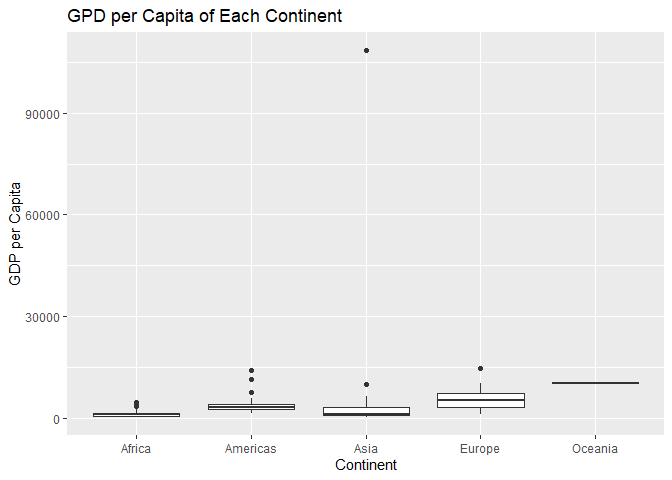
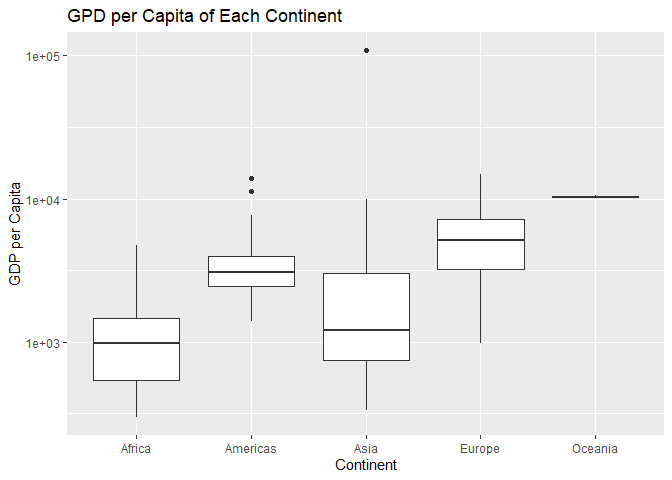
resubmit challenge 4

diff --git a/challenges/c04-gapminder-assignment.md b/challenges/c04-gapminder-assignment.md
@@ -3,47 +3,32 @@ Gapminder
 (Your name here)
 2020-
 
-- <a href="#grading-rubric" id="toc-grading-rubric">Grading Rubric</a>
-  - <a href="#individual" id="toc-individual">Individual</a>
-  - <a href="#due-date" id="toc-due-date">Due Date</a>
-- <a href="#guided-eda" id="toc-guided-eda">Guided EDA</a>
-  - <a
-    href="#q0-perform-your-first-checks-on-the-dataset-what-variables-are-in-this"
-    id="toc-q0-perform-your-first-checks-on-the-dataset-what-variables-are-in-this"><strong>q0</strong>
-    Perform your “first checks” on the dataset. What variables are in
-    this</a>
-  - <a
-    href="#q1-determine-the-most-and-least-recent-years-in-the-gapminder-dataset"
-    id="toc-q1-determine-the-most-and-least-recent-years-in-the-gapminder-dataset"><strong>q1</strong>
-    Determine the most and least recent years in the <code>gapminder</code>
-    dataset.</a>
-  - <a
-    href="#q2-filter-on-years-matching-year_min-and-make-a-plot-of-the-gdp-per-capita-against-continent-choose-an-appropriate-geom_-to-visualize-the-data-what-observations-can-you-make"
-    id="toc-q2-filter-on-years-matching-year_min-and-make-a-plot-of-the-gdp-per-capita-against-continent-choose-an-appropriate-geom_-to-visualize-the-data-what-observations-can-you-make"><strong>q2</strong>
-    Filter on years matching <code>year_min</code>, and make a plot of the
-    GDP per capita against continent. Choose an appropriate
-    <code>geom_</code> to visualize the data. What observations can you
-    make?</a>
-  - <a
-    href="#q3-you-should-have-found-at-least-three-outliers-in-q2-but-possibly-many-more-identify-those-outliers-figure-out-which-countries-they-are"
-    id="toc-q3-you-should-have-found-at-least-three-outliers-in-q2-but-possibly-many-more-identify-those-outliers-figure-out-which-countries-they-are"><strong>q3</strong>
-    You should have found <em>at least</em> three outliers in q2 (but
+- [Grading Rubric](#grading-rubric)
+  - [Individual](#individual)
+  - [Due Date](#due-date)
+- [Guided EDA](#guided-eda)
+  - [**q0** Perform your “first checks” on the dataset. What variables
+    are in
+    this](#q0-perform-your-first-checks-on-the-dataset-what-variables-are-in-this)
+  - [**q1** Determine the most and least recent years in the `gapminder`
+    dataset.](#q1-determine-the-most-and-least-recent-years-in-the-gapminder-dataset)
+  - [**q2** Filter on years matching `year_min`, and make a plot of the
+    GDP per capita against continent. Choose an appropriate `geom_` to
+    visualize the data. What observations can you
+    make?](#q2-filter-on-years-matching-year_min-and-make-a-plot-of-the-gdp-per-capita-against-continent-choose-an-appropriate-geom_-to-visualize-the-data-what-observations-can-you-make)
+  - [**q3** You should have found *at least* three outliers in q2 (but
     possibly many more!). Identify those outliers (figure out which
-    countries they are).</a>
-  - <a
-    href="#q4-create-a-plot-similar-to-yours-from-q2-studying-both-year_min-and-year_max-find-a-way-to-highlight-the-outliers-from-q3-on-your-plot-in-a-way-that-lets-you-identify-which-country-is-which-compare-the-patterns-between-year_min-and-year_max"
-    id="toc-q4-create-a-plot-similar-to-yours-from-q2-studying-both-year_min-and-year_max-find-a-way-to-highlight-the-outliers-from-q3-on-your-plot-in-a-way-that-lets-you-identify-which-country-is-which-compare-the-patterns-between-year_min-and-year_max"><strong>q4</strong>
-    Create a plot similar to yours from q2 studying both
-    <code>year_min</code> and <code>year_max</code>. Find a way to highlight
-    the outliers from q3 on your plot <em>in a way that lets you identify
-    which country is which</em>. Compare the patterns between
-    <code>year_min</code> and <code>year_max</code>.</a>
-- <a href="#your-own-eda" id="toc-your-own-eda">Your Own EDA</a>
-  - <a
-    href="#q5-create-at-least-three-new-figures-below-with-each-figure-try-to-pose-new-questions-about-the-data"
-    id="toc-q5-create-at-least-three-new-figures-below-with-each-figure-try-to-pose-new-questions-about-the-data"><strong>q5</strong>
-    Create <em>at least</em> three new figures below. With each figure, try
-    to pose new questions about the data.</a>
+    countries they
+    are).](#q3-you-should-have-found-at-least-three-outliers-in-q2-but-possibly-many-more-identify-those-outliers-figure-out-which-countries-they-are)
+  - [**q4** Create a plot similar to yours from q2 studying both
+    `year_min` and `year_max`. Find a way to highlight the outliers from
+    q3 on your plot *in a way that lets you identify which country is
+    which*. Compare the patterns between `year_min` and
+    `year_max`.](#q4-create-a-plot-similar-to-yours-from-q2-studying-both-year_min-and-year_max-find-a-way-to-highlight-the-outliers-from-q3-on-your-plot-in-a-way-that-lets-you-identify-which-country-is-which-compare-the-patterns-between-year_min-and-year_max)
+- [Your Own EDA](#your-own-eda)
+  - [**q5** Create *at least* three new figures below. With each figure,
+    try to pose new questions about the
+    data.](#q5-create-at-least-three-new-figures-below-with-each-figure-try-to-pose-new-questions-about-the-data)
 
 *Purpose*: Learning to do EDA well takes practice! In this challenge
 you’ll further practice EDA by first completing a guided exploration,
@@ -86,18 +71,30 @@ for more information.
 library(tidyverse)
 ```
 
-    ## ── Attaching packages ─────────────────────────────────────── tidyverse 1.3.2 ──
-    ## ✔ ggplot2 3.3.6     ✔ purrr   0.3.4
-    ## ✔ tibble  3.1.8     ✔ dplyr   1.0.9
-    ## ✔ tidyr   1.2.0     ✔ stringr 1.4.0
-    ## ✔ readr   2.1.2     ✔ forcats 0.5.1
+    ## Warning: package 'tidyverse' was built under R version 4.2.3
+
+    ## Warning: package 'ggplot2' was built under R version 4.2.3
+
+    ## Warning: package 'stringr' was built under R version 4.2.3
+
+    ## Warning: package 'forcats' was built under R version 4.2.3
+
+    ## ── Attaching core tidyverse packages ──────────────────────── tidyverse 2.0.0 ──
+    ## ✔ dplyr     1.0.9     ✔ readr     2.1.2
+    ## ✔ forcats   1.0.0     ✔ stringr   1.5.0
+    ## ✔ ggplot2   3.4.2     ✔ tibble    3.1.8
+    ## ✔ lubridate 1.8.0     ✔ tidyr     1.2.0
+    ## ✔ purrr     0.3.4     
     ## ── Conflicts ────────────────────────────────────────── tidyverse_conflicts() ──
     ## ✖ dplyr::filter() masks stats::filter()
     ## ✖ dplyr::lag()    masks stats::lag()
+    ## ℹ Use the ]8;;http://conflicted.r-lib.org/conflicted package]8;; to force all conflicts to become errors
 
 ``` r
 library(gapminder)
 ```
+
+    ## Warning: package 'gapminder' was built under R version 4.2.3
 
 *Background*: [Gapminder](https://www.gapminder.org/about-gapminder/) is
 an independent organization that seeks to educate people about the state
@@ -210,6 +207,7 @@ gapminder %>%
   filter(year == year_min) %>%
   ggplot() + 
   geom_boxplot(mapping = aes(x = continent, y = gdpPercap)) +
+  scale_y_log10() + 
   ylab("GDP per Capita") +
   xlab("Continent") +
   ggtitle("GPD per Capita of Each Continent")
